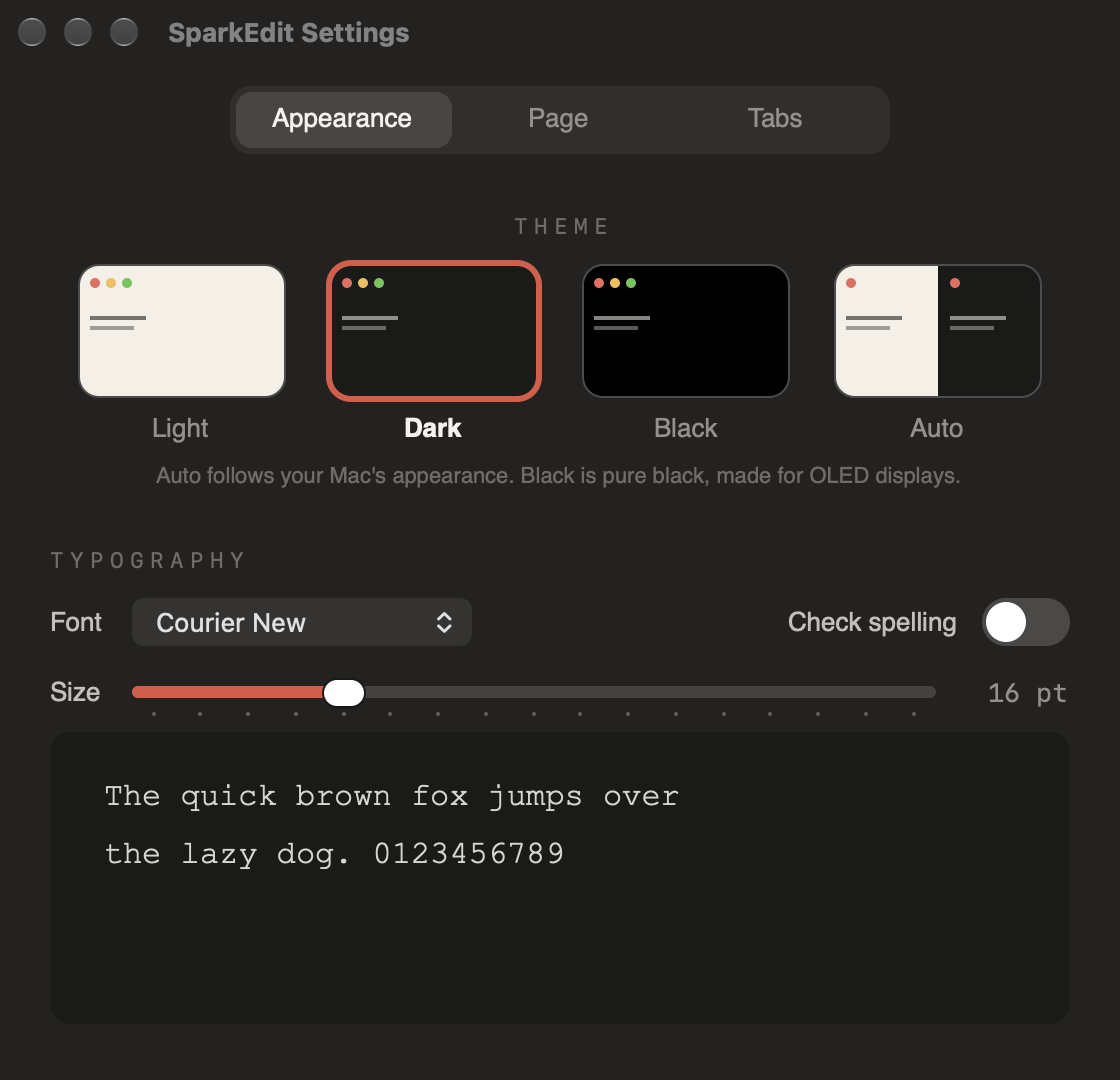
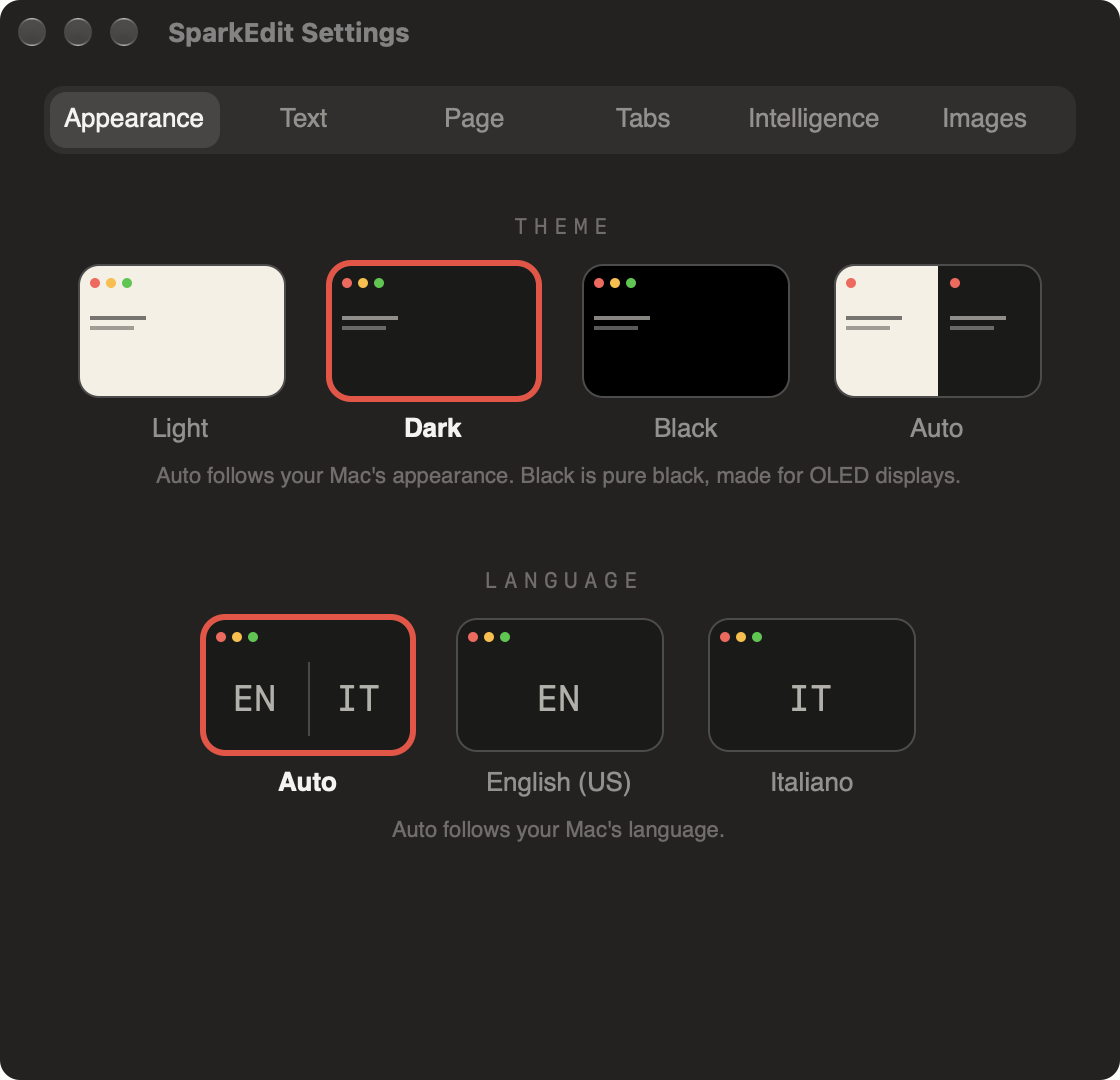
SparkEdit 2.1.0 (342): colours for code with the optional dual-syntax plugin; the README shows them, the settings pictures are new

diff --git a/tools/stack.swift b/tools/stack.swift
@@ -1,0 +1,31 @@
+// stack.swift in out radius outWidth x1 y1 w1 h1 [x2 y2 w2 h2 …]: pieces of one picture (pixels,
+// from the top left) one under the other, the whole with rounded corners, scaled to outWidth.
+// For a window whose middle is empty: its top and its status line, without the gap.
+import AppKit
+let a = CommandLine.arguments
+let src = NSImage(contentsOfFile: a[1])!
+var all = CGRect(origin: .zero, size: src.size)
+let cg = src.cgImage(forProposedRect: &all, context: nil, hints: nil)!
+let radius = CGFloat(Double(a[3])!), outW = Int(a[4])!
+var pieces: [CGRect] = []
+var k = 5
+while k + 3 < a.count {
+    pieces.append(CGRect(x: Double(a[k])!, y: Double(a[k + 1])!, width: Double(a[k + 2])!, height: Double(a[k + 3])!))
+    k += 4
+}
+let width = pieces.map(\.width).max()!
+let height = pieces.map(\.height).reduce(0, +)
+let scale = CGFloat(outW) / width
+let outH = Int((height * scale).rounded())
+let ctx = CGContext(data: nil, width: outW, height: outH, bitsPerComponent: 8, bytesPerRow: 0, space: CGColorSpace(name: CGColorSpace.sRGB)!, bitmapInfo: CGImageAlphaInfo.premultipliedLast.rawValue)!
+ctx.interpolationQuality = .high
+ctx.addPath(CGPath(roundedRect: CGRect(x: 0, y: 0, width: outW, height: outH), cornerWidth: radius * scale, cornerHeight: radius * scale, transform: nil))
+ctx.clip()
+var top = CGFloat(outH)
+for piece in pieces {
+    let h = piece.height * scale
+    top -= h
+    ctx.draw(cg.cropping(to: piece)!, in: CGRect(x: 0, y: top, width: piece.width * scale, height: h))
+}
+let rep = NSBitmapImageRep(cgImage: ctx.makeImage()!)
+try! rep.representation(using: .png, properties: [:])!.write(to: URL(fileURLWithPath: a[2]))

diff --git a/Casks/sparkedit.rb b/Casks/sparkedit.rb
@@ -1,6 +1,6 @@
 cask "sparkedit" do
-  version "2.0.0,183"
[1 lines of base64/hex data omitted]
+  version "2.1.0,342"
[1 lines of base64/hex data omitted]
 
   url "https://github.com/siriokds/homebrew-tap/releases/download/sparkedit-#{version.csv.first}-#{version.csv.second}/SparkEdit-#{version.csv.first}-#{version.csv.second}.zip"
   name "SparkEdit"
@@ -24,5 +24,9 @@ cask "sparkedit" do
     Until then the spk command is stopped too.
 
     In the shell: spk file opens the file in SparkEdit (spk -h for the rest).
+
+    Colours for code (optional): the dual-syntax plugin, from another tap:
+      brew install siriokds/dual-viewers/dual-syntax
+    Settings > Text says whether SparkEdit found it.
   EOS
 end

diff --git a/README.md b/README.md
@@ -167,6 +167,25 @@ A text editor for the **Mac** whose tabs are miniatures of their pages. Beside e
 red, a few words on what the document contains: the Mac writes them by itself. macOS 14 or
 later.
 
+**New in 2.1: colours for code.** 21 languages (Bash, C, C#, C++, CMake, CSS, Dockerfile, HTML,
+JavaScript, JSON, JSX, Lua, Make, Markdown, PHP, Python, Rust, SQL, TOML, TSX, TypeScript), in the
+colours of the theme. The language is written at the bottom right; a click there, or the
+**Language** menu, changes it for that document.
+
+<p align="center">
+  <img src="images/colours-dark.png" alt="PHP coloured in the Dark theme; PHP written in the status line, at the bottom right" width="760">
+</p>
+
+- **Recognised by itself**: a file by its name (`.php`, `Makefile`, `Dockerfile`); a new document
+  by its first line (`#!/bin/bash`, `<?php`, `<!DOCTYPE html>`); and, with Apple Intelligence, a
+  new document of code by what it contains, once, when it is in front of you.
+- **Chosen by hand** when you want: the Language menu has Automatic, Plain Text and the
+  languages by letter; a choice made on a file is remembered for it.
+- **When the colour comes** (Settings › Text): *Relaxed*, when you stop; *Normal*, in the small
+  pauses; *Quick*, as you type. A change of language fades in, never pops.
+- The colours come from the **dual-syntax** plugin, optional: without it SparkEdit is as before
+  (see Install).
+
 **The tabs follow how many documents are open** (up to 128):
 
 <table>
@@ -183,22 +202,27 @@ type, and only the pages with those words stay.
   <img src="images/all-pages.png" alt="All Pages: a grid of the open documents as pages, with a field to filter them" width="760">
 </p>
 
-**Settings** (`⌘,`) — three pages, and every choice is a small picture of what it does. Nothing
-to confirm: what you choose is seen at once on the whole app, and kept.
+**Settings** (`⌘,`) — every choice is a small picture of what it does. Nothing to confirm: what
+you choose is seen at once on the whole app, and kept.
 
 <table>
 <tr>
-<td width="50%" align="center" valign="top"><img src="images/settings-appearance.png" alt="Settings, Appearance: the four themes as small windows, the font, Check spelling, the size, a preview"><br><sub><b>Appearance</b> — Light, Dark, Black or Auto (as the Mac); the font, the size, Check spelling</sub></td>
+<td width="50%" align="center" valign="top"><img src="images/settings-appearance.png" alt="Settings, Appearance: the four themes and the languages as small windows"><br><sub><b>Appearance</b> — Light, Dark, Black or Auto (as the Mac); English or Italian, or as the Mac</sub></td>
 <td width="50%" align="center" valign="top"><img src="images/settings-light.png" alt="Settings in the Light theme: paper"><br><sub><b>Light</b> — the page as paper; the theme reaches every part at once</sub></td>
 </tr>
 <tr>
 <td width="50%" align="center" valign="top"><img src="images/settings-page.png" alt="Settings, Page: the width as three small windows, a card of switches"><br><sub><b>Page</b> — 80 columns, 120 or the whole window; line numbers, word wrap, spaces, line ends</sub></td>
 <td width="50%" align="center" valign="top"><img src="images/settings-tabs.png" alt="Settings, Tabs: the rows as four small windows, a small window to try them"><br><sub><b>Tabs</b> — one to four rows, tried on your own documents in a small example window</sub></td>
 </tr>
+<tr>
+<td width="50%" align="center" valign="top"><img src="images/settings-text.png" alt="Settings, Text: the font, the size, Check spelling, a preview; Colour the code, the plugin found with its version, Readiness Relaxed, Normal, Quick"><br><sub><b>Text</b> — the font, the size, Check spelling; Colour the code and when the colour comes</sub></td>
+<td width="50%" align="center" valign="top"><img src="images/settings-intelligence.png" alt="Settings, Intelligence: Titles from the content, Recognise the language of new documents"><br><sub><b>Intelligence</b> — titles, and the language of new documents, by Apple's on-device model</sub></td>
+</tr>
 </table>
 
 <table>
-<tr><td width="150"><b>Settings</b></td><td><code>⌘,</code>: themes (Light as paper, Dark, Black, Auto), font and size, the page's width and what it shows, the rows of tabs</td></tr>
+<tr><td width="150"><b>Settings</b></td><td><code>⌘,</code>: themes (Light as paper, Dark, Black, Auto), font and size, the page's width and what it shows, the rows of tabs, the colours for code</td></tr>
+<tr><td width="150"><b>Colours for code</b></td><td>21 languages with the optional dual-syntax plugin; the Language menu and the status line; recognised by name, by the first line, or by Apple's model for new documents</td></tr>
 <tr><td width="150"><b>Check spelling</b></td><td>the Mac's own, a red wave under the words: only once you stop typing, never on the word you are writing</td></tr>
 <tr><td width="150"><b>Titles by themselves</b></td><td>a few words on what each document contains, beside its name: written on the Mac by Apple's on-device model (Apple Intelligence, macOS 26 or later), with nothing to ask for</td></tr>
 <tr><td width="150"><b>All Pages</b></td><td><code>⌘.</code> shows every document as a page, filtered by what it contains</td></tr>
@@ -220,6 +244,12 @@ brew install --cask sparkedit
 > 2. open **System Settings › Privacy & Security** and click **Open Anyway**.
 >
 > From then on it opens as any app, and `spk` works (until then macOS stops `spk` too).
+
+**Colours for code** &nbsp;<sub>optional: the dual-syntax plugin, from Dual's plugins tap; Settings › Text says whether SparkEdit found it</sub>
+
+```sh
+brew install siriokds/dual-viewers/dual-syntax
+```
 
 **Update** &nbsp;<sub>`brew update` first reads the new versions; Homebrew closes SparkEdit if it is open</sub>
 
